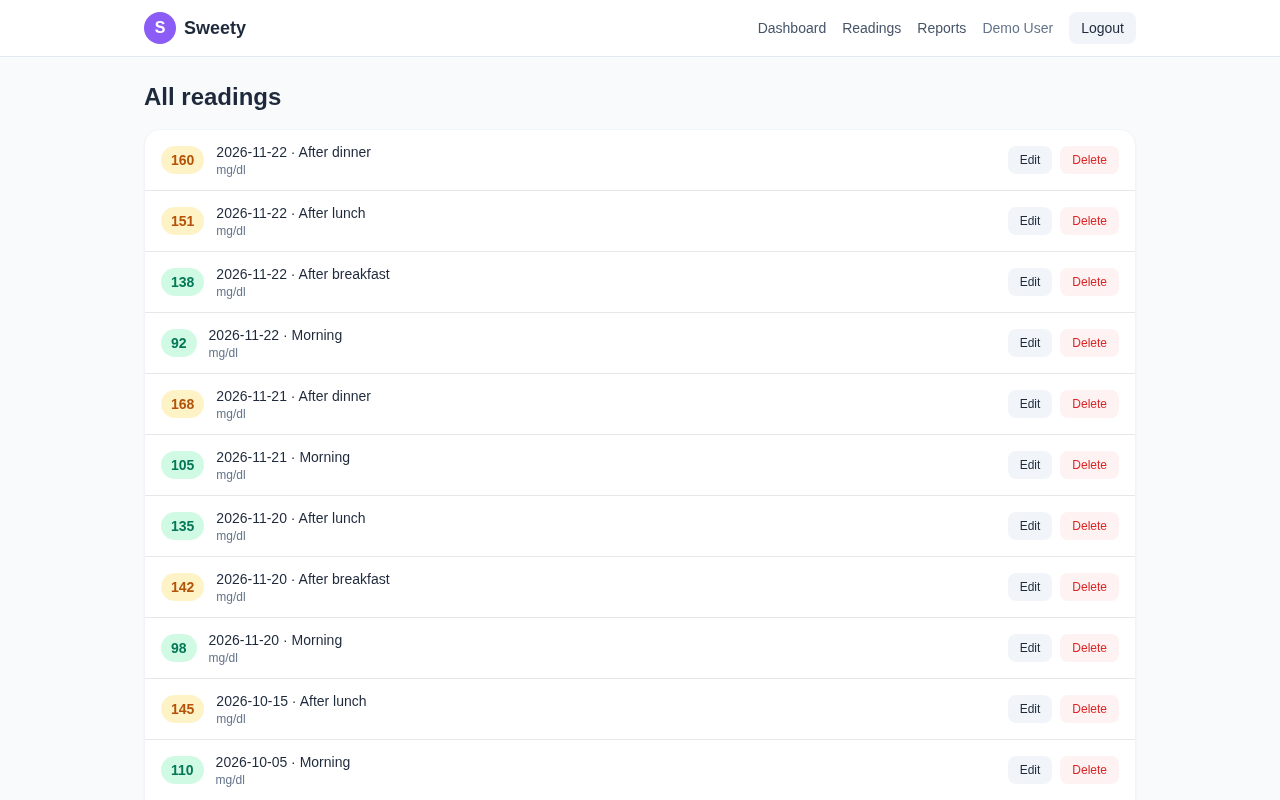
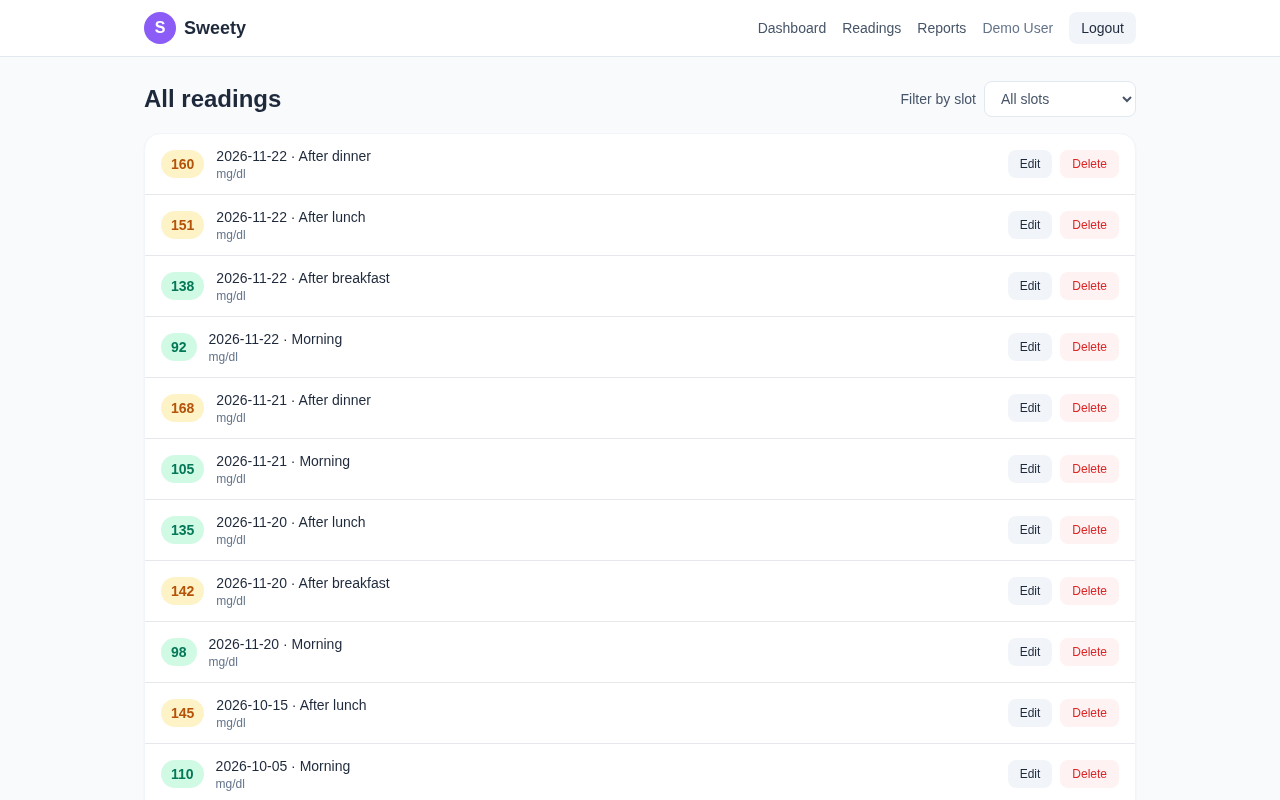
Trim README to essentials; refresh screenshots with slot filters

diff --git a/README.md b/README.md
@@ -1,252 +1,80 @@
 # Sweety – Blood Glucose Tracker
 
-A full-stack web application that helps diabetes patients securely record, manage, and monitor
-their daily blood glucose readings — up to four readings per day across four time slots
-(Morning fasting, After breakfast, After lunch, After dinner) — with daily and monthly reports.
-
-Built for the **Kenpath Junior Full Stack Developer (JavaScript & AI)** assignment
-(MERN + PostgreSQL stack).
-
-## Problem Statement
-
-Patients need a simple, reliable way to log blood sugar values (mg/dl), review the day at a
-glance, and look back at trends across the month. Sweety provides JWT-authenticated,
-per-user CRUD for readings with strict business validations enforced on both frontend and
-backend (authoritative), plus daily / month-to-date / previous-month reports.
+Track daily blood glucose readings (up to 4/day across 4 time slots) with daily and monthly reports. Built for the Kenpath Junior Full Stack Developer assignment (React + Express + PostgreSQL).
 
 ## Features
 
-- **Authentication** — register, login, persisted session, logout; bcrypt-hashed passwords; JWT.
-- **Readings CRUD** — add / view / edit / delete your own readings only; date picker, slot
-  dropdown, value input; sorted by date (desc) then slot order; paginated list (`?page&limit`).
-- **Business validations (frontend + backend)** with exact required messages:
-  - Empty value → `Please enter a glucose value.`
-  - Not a whole number in 40–600 → `Value must be between 40 and 600 mg/dl.`
-  - Duplicate slot on a date → `You already have an After lunch reading for this date.`
-    (+ PostgreSQL `UNIQUE(user_id, reading_date, time_slot)`)
-  - More than 4 readings/day → `You can add only 4 readings per day.`
-  - Future date → `Date cannot be in the future.`
-- **Reports** — highest / lowest / average (1 decimal) / count + date range, for:
-  Daily (selected date), Month-to-date (1st → selected date), Previous month
-  (full prior calendar month, leap/year-boundary safe). Friendly empty state, user-isolated.
-- **Dashboard** — welcome message, selected date, 4 stat cards, quick add-reading form,
-  daily readings list with range color badges (low / in-range / elevated).
-- **Reports page** — three tabs + reference-date picker + Recharts glucose trend line.
+- JWT auth (register / login / logout) with bcrypt hashing
+- Readings CRUD, strictly per-user, with pagination and time-slot filter
+- Business rules enforced frontend + backend: required value, whole number 40–600 mg/dl, one reading per slot/day, max 4/day, no future dates, DB unique + check constraints
+- Reports: daily, month-to-date, previous month — high / low / average (1 decimal) / count, Recharts trend, slot filter, friendly empty state
 
-## Technology Stack
+## Tech Stack
 
-| Layer    | Tech |
-|----------|------|
-| Frontend | React 19, Vite, JavaScript (ES6+), Tailwind CSS, React Router DOM, Axios, Recharts |
-| Backend  | Node.js, Express.js, JWT, bcryptjs, Prisma ORM |
-| Database | PostgreSQL 18 |
-| Testing  | Jest, Supertest (21 backend tests) |
-| Tools    | Docker Compose (Postgres), ESLint-ready, Postman-friendly REST |
+React 19 · Vite · Tailwind · React Router · Axios · Recharts — Express · Prisma · PostgreSQL 18 · JWT · bcryptjs — Jest · Supertest — Docker Compose (Postgres)
 
-## Project Architecture
-
-```
-.
-├── client/                  # React + Vite frontend
-│   ├── src/
-│   │   ├── components/      # Navbar, ProtectedRoute, StatCard, ReadingForm, EmptyState
-│   │   ├── pages/           # Login, Register, Dashboard, Readings, Reports
-│   │   ├── context/         # AuthContext (token persistence, /me restore)
-│   │   ├── services/        # api.js (Axios instance + interceptors + slot helpers)
-│   │   ├── App.jsx main.jsx index.css
-│   └── package.json
-├── server/                  # Express API
-│   ├── prisma/
-│   │   ├── schema.prisma    # User + Reading models, unique(user,date,slot)
-│   │   ├── migrations/      # incl. readings_value_check (40–600)
-│   │   └── seed.js          # idempotent demo seed
-│   ├── src/
-│   │   ├── config/          # prisma client (test-DB aware), env
-│   │   ├── controllers/     # thin: auth, reading, report
-│   │   ├── services/        # business logic: auth, reading, report
-│   │   ├── validators/      # readingValidator (all 5 rules, exact messages)
-│   │   ├── middleware/      # auth (JWT), errorHandler (central, safe messages)
-│   │   ├── routes/          # authRoutes, readingRoutes, reportRoutes
-│   │   ├── app.js server.js
-│   └── tests/               # auth, readings, reports (+ setup)
-├── screenshots/
-├── docker-compose.yml       # local Postgres
-├── .env.example
-└── README.md
-```
-
-## Prerequisites
-
-- Node.js ≥ 18, npm ≥ 9
-- PostgreSQL 14+ (or Docker), e.g. `docker compose up -d`
-
-## Installation
+## Quickstart
 
 ```bash
-git clone https://github.com/siddhid1/sweety.git
-cd sweety
-npm install --prefix server
-npm install --prefix client
+git clone https://github.com/siddhid1/sweety.git && cd sweety
+
+# 1. Database
+docker compose up -d                                   # Postgres on :5433
+
+# 2. Backend (http://localhost:5000)
+cp .env.example server/.env                            # then fill in secrets
+cd server && npm install && npx prisma migrate deploy && npm run db:seed && npm run dev
+
+# 3. Frontend (http://localhost:5173)
+cd client && npm install && npm run dev                # set VITE_API_URL in client/.env
+
+# 4. Tests (separate sweety_test DB, dev data untouched)
+cd server && npm test                                  # 23 tests
 ```
 
-## PostgreSQL Database Setup
+`server/.env` needs `DATABASE_URL`, `DATABASE_URL_TEST`, `JWT_SECRET`, `PORT`, `CLIENT_URL`/`CLIENT_URLS`. See `.env.example`. Never commit real secrets.
 
-**Option A — Docker (recommended):**
+## Demo Accounts
 
-```bash
-docker compose up -d
-# Postgres at localhost:5433, user/password/db: sweety/sweety123/sweety
-```
+Password for all: `Demo@12345`
 
-**Option B — local Postgres:** create databases `sweety` and `sweety_test`, then point
-`DATABASE_URL` / `DATABASE_URL_TEST` at them.
+| Email | Data |
+|---|---|
+| demo@example.com | 13 curated readings |
+| anaya / rahul / priya / arjun / kavya @example.com | ~90–140 readings each over 30–45 days |
 
-## Environment Variable Setup
+Re-run `npm run db:seed` anytime — it upserts, never duplicates.
 
-```bash
-cp .env.example server/.env
-cp client/.env.example client/.env   # or set VITE_API_URL in your shell
-```
+## API
 
-Backend (`server/.env`):
+Base `http://localhost:5000/api` · protected routes take `Authorization: Bearer <JWT>` · errors are `{ success: false, message }`.
 
-```
-DATABASE_URL="postgresql://sweety:sweety123@localhost:5433/sweety?schema=public"
-DATABASE_URL_TEST="postgresql://sweety:sweety123@localhost:5433/sweety_test?schema=public"
-JWT_SECRET="change-me-to-a-long-random-secret-min-32-chars"
-JWT_EXPIRES_IN="7d"
-PORT=5000
-NODE_ENV="development"
-CLIENT_URL="http://localhost:5173"
-CLIENT_URLS="http://localhost:5173,http://localhost:4173"   # comma-separated allowed origins
-```
+| Method | Endpoint | Notes |
+|---|---|---|
+| POST | `/api/auth/register` | `{ name, email, password }` → `{ user, token }` |
+| POST | `/api/auth/login` | `{ email, password }` → `{ user, token }` |
+| GET | `/api/auth/me` | current user |
+| GET | `/api/readings?page&limit&timeSlot` | own readings, newest first |
+| POST | `/api/readings` | `{ readingDate: "2026-10-15", timeSlot: "AFTER_LUNCH", value: 145 }` |
+| GET / PUT / DELETE | `/api/readings/:id` | 404 unless yours |
+| GET | `/api/reports/daily?date&timeSlot` | stats + readings for the day |
+| GET | `/api/reports/month-to-date?date&timeSlot` | stats for 1st → date |
+| GET | `/api/reports/monthly?date&timeSlot` | stats for full previous month |
 
-Frontend (`client/.env`): `VITE_API_URL="http://localhost:5000/api"`
-
-## Prisma Migration Instructions
-
-```bash
-cd server
-npx prisma migrate deploy   # or: npx prisma migrate dev (creates a migration)
-```
-
-The second migration adds the DB-level glucose range guard:
-`ALTER TABLE "readings" ADD CONSTRAINT "readings_value_check" CHECK ("value" >= 40 AND "value" <= 600);`
-
-## Seed Script Instructions
-
-```bash
-cd server
-npm run db:seed
-```
-
-Idempotent (`upsert`): creates/updates demo user **demo@example.com / Demo@12345**
-with 13 sample readings spanning Nov 2026, Oct 2026 and Sep 2026. Safe to re-run.
-
-## How to Start the Backend
-
-```bash
-cd server
-npm run dev     # watch mode → http://localhost:5000 (GET /health)
-# production: npm start
-```
-
-## How to Start the Frontend
-
-```bash
-cd client
-npm run dev     # → http://localhost:5173
-# production preview: npm run build && npm run preview
-```
-
-## How to Run Tests
-
-```bash
-cd server
-npm test        # 21 tests: 5 auth + 11 readings + 5 reports… (see tests/)
-```
-
-Tests run against `DATABASE_URL_TEST` (`sweety_test`) and wipe it clean before each case —
-development data is never touched.
-
-## API Endpoint Documentation
-
-Base URL: `http://localhost:5000/api`. Protected routes need
-`Authorization: Bearer <JWT>`. Errors: `{ success: false, message }`.
-
-### Authentication
-
-| Method | Endpoint | Body | Notes |
-|--------|----------|------|-------|
-| POST | `/api/auth/register` | `{ name, email, password }` | 201 + `{ user, token }`; 409 duplicate email |
-| POST | `/api/auth/login` | `{ email, password }` | 200 + `{ user, token }`; 401 bad credentials |
-| GET | `/api/auth/me` | — | 200 current user (protected) |
-
-### Readings (all protected, strictly scoped to the JWT user)
-
-| Method | Endpoint | Body / Query | Notes |
-|--------|----------|--------------|-------|
-| GET | `/api/readings` | `?page&limit` optional | No params → full sorted list; with params → `{ data, pagination }` |
-| GET | `/api/readings/:id` | — | 404 if not yours |
-| POST | `/api/readings` | `{ readingDate: "2026-10-15", timeSlot: "AFTER_LUNCH", value: 145 }` | All 5 rules enforced; 409 duplicate slot |
-| PUT | `/api/readings/:id` | same as POST | Rules re-validated; 404 if not yours |
-| DELETE | `/api/readings/:id` | — | 404 if not yours |
-
-`timeSlot` ∈ `MORNING, AFTER_BREAKFAST, AFTER_LUNCH, AFTER_DINNER`.
-`readingDate` is a calendar `DATE` (`YYYY-MM-DD`), never a timestamp — no timezone shifting.
-
-### Reports (protected, user-isolated)
-
-| Method | Endpoint | Example |
-|--------|----------|---------|
-| GET | `/api/reports/daily?date=2026-10-15` | Stats + readings for that date |
-| GET | `/api/reports/month-to-date?date=2026-10-15` | Stats for Oct 1–15 |
-| GET | `/api/reports/monthly?date=2026-10-15` | Stats for full Sep 2026 |
-
-Response: `{ success, data: { date, dateRange: { start, end }, count, highest, lowest, average, readings, message? } }`.
-Empty range → `count: 0`, nulls for high/low/avg (never misleading zeros) + friendly message.
-
-## Demo Login Credentials
-
-| Email | Password | Data |
-|-------|----------|------|
-| demo@example.com | Demo@12345 | 13 curated readings (Nov/Oct/Sep 2026) |
-| anaya@example.com | Demo@12345 | ~135 readings, 45 days |
-| rahul@example.com | Demo@12345 | ~135 readings, 45 days |
-| priya@example.com | Demo@12345 | ~140 readings, 45 days |
-| arjun@example.com | Demo@12345 | ~90 readings, 30 days |
-| kavya@example.com | Demo@12345 | ~90 readings, 30 days |
-
-All seeded users share the password `Demo@12345`. Re-run `npm run db:seed` any time —
-it upserts, so it never duplicates users or readings.
+`timeSlot` ∈ `MORNING, AFTER_BREAKFAST, AFTER_LUNCH, AFTER_DINNER`. Empty ranges return `count: 0` with nulls (never fake zeros).
 
 ## Screenshots
 
 | Login | Register |
-|-------|----------|
+|---|---|
 | ![Login](screenshots/01-login.png) | ![Register](screenshots/02-register.png) |
 
 | Dashboard | Readings | Reports |
-|-----------|----------|---------|
+|---|---|---|
 | ![Dashboard](screenshots/03-dashboard.png) | ![Readings](screenshots/04-readings.png) | ![Reports](screenshots/05-reports.png) |
 
-## Assumptions and Limitations
+## Notes
 
-1. **Auth storage:** JWT in `localStorage` (per assignment's persistence requirement) rather
-   than httpOnly cookies — simpler for a decoupled Vite + Express demo; XSS hygiene is the
-   trade-off and is documented here.
-2. **Date handling:** `readingDate` is a pure calendar date compared lexicographically
-   (`YYYY-MM-DD`) against the server-local today; no time-of-day or timezone conversion.
-3. **Duplicate-slot wording:** the dynamic message uses the slot's friendly label
-   (e.g. `After lunch`), so casing varies by slot while matching the required format.
-4. **No refresh tokens / roles / Redis / BullMQ / doctor roles** — out of scope per the
-   assignment's bonus priority list; pagination + trend chart + Docker are implemented instead.
-5. Tests cover the backend only (React Testing Library left as future work).
-
-## Future Improvements
-
-- httpOnly-cookie auth + refresh-token rotation.
-- CSV export of readings; reminder notifications for missed slots.
-- Frontend tests (React Testing Library) + GitHub Actions CI.
-- Full Docker Compose for API + web (Postgres already composed).
-- HbA1c estimate card and 7/30-day rolling averages.
+- `readingDate` is a plain calendar `DATE` compared as `YYYY-MM-DD` — no timezone shifting.
+- Auth tokens live in `localStorage` per the assignment's persistence requirement (httpOnly cookies would be the production choice).
+- Out of scope by design: roles, Redis, queues, doctor accounts — see bonus priority list in the brief.
